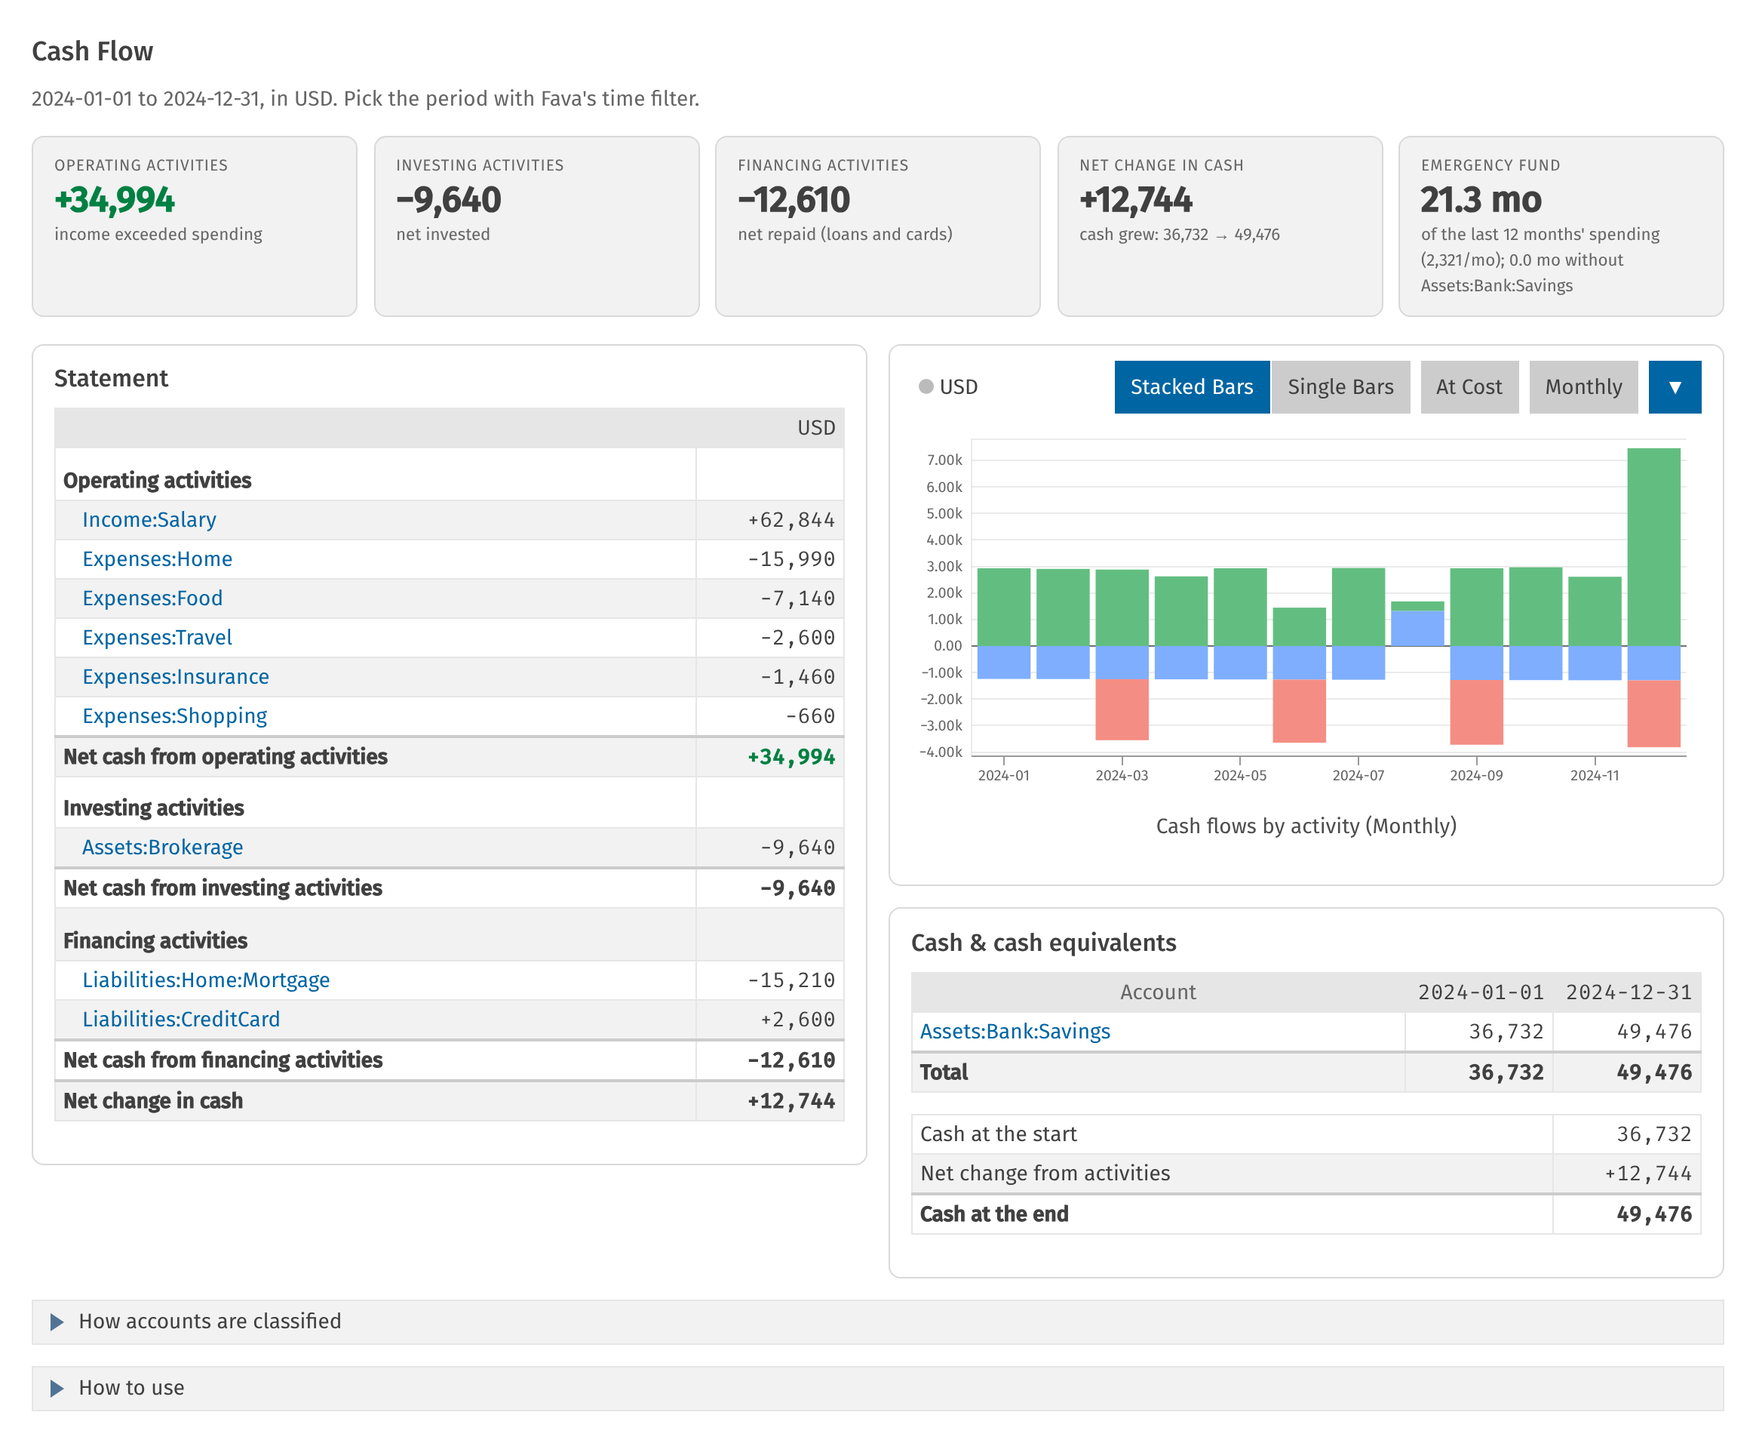
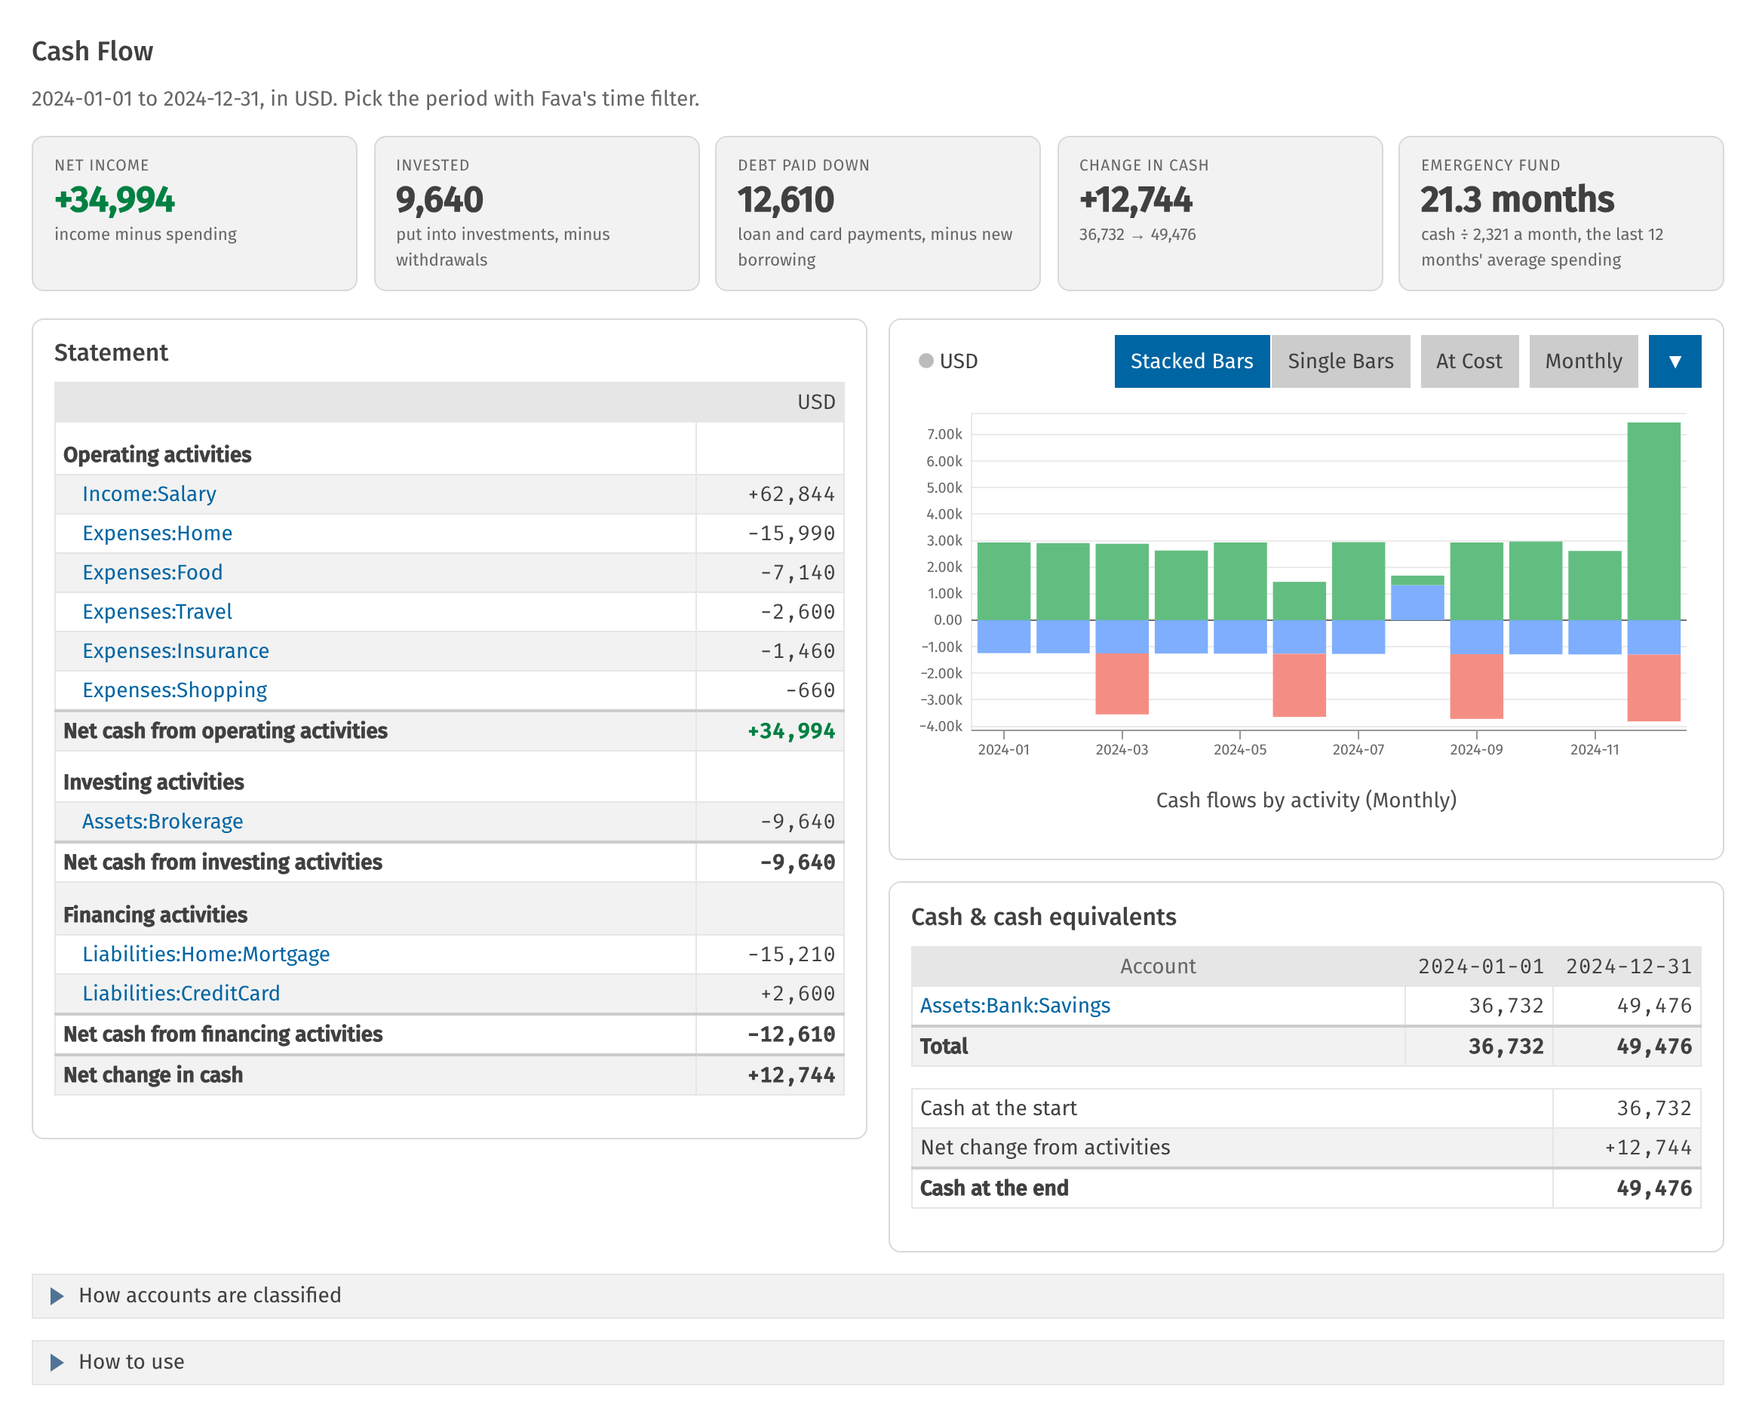
Cash Flow: plain card titles, emergency fund without the savings split
The cards are Net income, Invested or Withdrawn from investments, Debt paid
down or Borrowed, Change in cash and Emergency fund, each with how it's made
up below. The emergency fund is one figure: cash in months of the last 12
months' average spending.

Claude-Session: https://claude.ai/code/session_01KmgJLZjK5mttXsmcq9tafp

diff --git a/src/beancount_sg/ext/cash_flow/templates/CashFlow.html b/src/beancount_sg/ext/cash_flow/templates/CashFlow.html
@@ -74,24 +74,23 @@
 
 <div class="cf-cards">
   {% for activity in extension.activities %}
-  {% set total = result.total(activity) %}
-  <div class="cf-card">
-    <div class="cf-card-label">{{ activity }} activities</div>
-    <div class="cf-card-value">{{ flow(total, activity) }}</div>
-    <div class="cf-note">{{ extension.meaning(activity, total) }}</div>
+  {% set found = extension.card(activity, result.total(activity)) %}
+  <div class="cf-card" title="Net cash from {{ activity }} activities">
+    <div class="cf-card-label">{{ found.title }}</div>
+    <div class="cf-card-value"><span class="cf-{{ found.tone }}">{{ found.amount }}</span></div>
+    <div class="cf-note">{{ found.detail }}</div>
   </div>
   {% endfor %}
   <div class="cf-card">
-    <div class="cf-card-label">Net change in cash</div>
+    <div class="cf-card-label">Change in cash</div>
     <div class="cf-card-value">{{ flow(result.net_change) }}</div>
-    <div class="cf-note">{{ extension.meaning("cash", result.net_change) }}: {{ extension.balance(result.cash_start_total) }} → {{ extension.balance(result.cash_end_total) }}</div>
+    <div class="cf-note">{{ extension.balance(result.cash_start_total) }} → {{ extension.balance(result.cash_end_total) }}</div>
   </div>
-  {% set months = result.months_of_cash() %}
-  {% set spendable = result.months_of_cash(savings=false) %}
-  <div class="cf-card" title="Cash at the end, divided by average monthly spending over the 12 months up to it ({{ result.trailing_start }} to {{ result.end - extension.one_day }})">
+  {% set months = result.months_of_cash %}
+  <div class="cf-card" title="Average spending over {{ result.trailing_start }} to {{ result.end - extension.one_day }}">
     <div class="cf-card-label">Emergency fund</div>
-    <div class="cf-card-value">{% if months is none %}&mdash;{% else %}{{ '%.1f'|format(months) }} mo{% endif %}</div>
-    <div class="cf-note">of the last 12 months' spending ({{ extension.balance(result.monthly_expenses) }}/mo){% if spendable is not none and result.savings_accounts %}; {{ '%.1f'|format(spendable) }} mo without {{ result.savings_accounts|join(', ') }}{% endif %}</div>
+    <div class="cf-card-value">{% if months is none %}&mdash;{% else %}{{ '%.1f'|format(months) }} months{% endif %}</div>
+    <div class="cf-note">cash ÷ {{ extension.balance(result.monthly_expenses) }} a month, the last 12 months' average spending</div>
   </div>
 </div>
 
@@ -183,14 +182,15 @@
     <li>The period is Fava's time filter, up to today, or the last 12 months (this month and the
       11 before) without one. Fava's account and advanced filters apply, as on Fava's own
       reports.</li>
-    <li>Each line is an account's effect on cash: money in is positive, money out negative. So
-      investing −9,640 means 9,640 more was invested than withdrawn, and financing −5,000 that
-      5,000 more was repaid than borrowed. Only operating cash is green (a surplus) or red (a
-      deficit): investing and financing aren't good or bad by their sign. Income and expenses are
-      rolled up to their top-level category, e.g. <code>Expenses:Food</code>.</li>
+    <li>The cards name each activity's total in plain terms: <em>net income</em> (operating),
+      <em>invested</em> or <em>withdrawn from investments</em> (investing), and <em>debt paid
+      down</em> or <em>borrowed</em> (financing). Only net income is green (a surplus) or red (a
+      deficit): investing and financing aren't good or bad by which way they go.</li>
+    <li>In the statement, each line is an account's effect on cash: money in is positive, money
+      out negative, e.g. investing −9,640 is 9,640 invested. Income and expenses are rolled up to
+      their top-level category, e.g. <code>Expenses:Food</code>.</li>
     <li>The <em>emergency fund</em> is cash at the end, in months of average spending over the 12
-      months up to it, whatever the period; also without accounts named Savings, i.e. the money
-      on hand to spend.</li>
+      months up to it, whatever the period.</li>
     <li>Credit cards are <code>financing</code>, like any liability: spending on a card is in
       operating, by category, and the card's line in financing is its net change. A card paid in
       full nets to about zero; one carrying a balance shows as borrowing or repaying it.</li>

diff --git a/src/beancount_sg/ext/cash_flow/__init__.py b/src/beancount_sg/ext/cash_flow/__init__.py
@@ -11,14 +11,14 @@ cash (accounts with the ``cash`` role) over the period by every other account's
 flows, in operating, investing and financing sections; see
 `beancount_sg.ext.cash_flow.statement`.
 
-The period is Fava's time filter, up to today, or the last 12 months without one. Fava's
-account and advanced filters apply, as on Fava's own reports. The page has:
+The period is Fava's time filter, up to today, or the last 12 months without one.
+Fava's account and advanced filters apply, as on Fava's own reports. The page has:
 
-- Cards with each activity's total and what it means (e.g. investing -9,640 is
-  "net invested"), the net change in cash, and the emergency fund: how many
-  months of average spending over the last 12 months cash covers, with and
-  without savings accounts. Only operating cash is colored, green for a surplus and red for a
-  deficit: investing and financing flows aren't good or bad by their sign.
+- Cards in plain terms: net income (operating), invested or withdrawn from
+  investments (investing), debt paid down or borrowed (financing), the change in
+  cash, and the emergency fund: how many months of average spending over the last
+  12 months cash covers. Only net income is colored, green for a surplus and red
+  for a deficit: investing and financing flows aren't good or bad by their sign.
 - The statement: each activity's lines and total, and the net change in cash.
 - A chart of each activity's flows per interval (Fava's interval menu).
 - The reconciliation: each cash account at the start and end, with the change
@@ -29,6 +29,7 @@ account and advanced filters apply, as on Fava's own reports. The page has:
 from __future__ import annotations
 
 import datetime
+from dataclasses import dataclass
 from decimal import Decimal
 
 from beancount.core import prices
@@ -72,22 +73,34 @@ def tone(activity: str | None, value: Decimal) -> str:
     return "good" if value > 0 else "bad"
 
 
-# What an activity's total means, when it's money in (+) or out (-) of cash.
-MEANINGS = {
-    (OPERATING, True): "income exceeded spending",
-    (OPERATING, False): "spending exceeded income",
-    (INVESTING, True): "net withdrawn from investments",
-    (INVESTING, False): "net invested",
-    (FINANCING, True): "net borrowed",
-    (FINANCING, False): "net repaid (loans and cards)",
-    (CASH, True): "cash grew",
-    (CASH, False): "cash shrank",
+@dataclass(frozen=True)
+class Card:
+    """An activity's total as a card: a plain title, the amount, and how it's made up."""
+
+    title: str
+    amount: str
+    tone: str
+    detail: str
+
+
+# Each activity's card title and detail, by whether its total is money into cash.
+# Investing and financing are named for which way the money went, and shown
+# without a sign; net income keeps its sign.
+CARDS = {
+    (OPERATING, True): ("Net income", "income minus spending"),
+    (OPERATING, False): ("Net income", "income minus spending"),
+    (INVESTING, True): ("Withdrawn from investments", "taken out, minus money put in"),
+    (INVESTING, False): ("Invested", "put into investments, minus withdrawals"),
+    (FINANCING, True): ("Borrowed", "new borrowing, minus loan and card payments"),
+    (FINANCING, False): ("Debt paid down", "loan and card payments, minus new borrowing"),
 }
 
 
-def meaning(activity: str, value: Decimal) -> str:
-    """What an activity's total (or, for ``cash``, the net change) means."""
-    return MEANINGS[(activity, value >= 0)] if value else "no change"
+def card(activity: str, value: Decimal) -> Card:
+    """The card for an activity's total."""
+    title, detail = CARDS[(activity, value > 0)]
+    amount = money(value) if activity == OPERATING else balance(abs(value))
+    return Card(title, amount, tone(activity, value), detail)
 
 
 class CashFlow(FavaExtensionBase):
@@ -101,7 +114,7 @@ class CashFlow(FavaExtensionBase):
     money = staticmethod(money)
     balance = staticmethod(balance)
     tone = staticmethod(tone)
-    meaning = staticmethod(meaning)
+    card = staticmethod(card)
 
     def period(self) -> tuple[datetime.date, datetime.date]:
         """Fava's time filter, or the last 12 months: the first day, and the day after the last.

diff --git a/tests/ext/test_cash_flow.py b/tests/ext/test_cash_flow.py
@@ -2,12 +2,14 @@ import datetime
 import html
 import json
 import re
+from decimal import Decimal
 from urllib.parse import parse_qs, unquote, urlsplit
 
 import pytest
 from fava.application import create_app
 
 import beancount_sg.ext.cash_flow as cash_flow_ext
+from beancount_sg.cash_flow_roles import FINANCING, INVESTING
 
 from .test_cash_flow_statement import LEDGER as STATEMENT_LEDGER
 
@@ -55,33 +57,32 @@ def test_defaults_to_the_last_12_months(tmp_path):
     assert "2023-10-01 to 2024-09-30, in USD." in body
 
 
-def test_cards_say_what_each_total_means(tmp_path):
-    body = page(tmp_path, query="?time=2024")
-    cards = text(
-        body[body.index('<div class="cf-cards">') : body.index('<div class="cf-columns">')]
-    )
-    assert "operating activities +4,400 income exceeded spending" in cards
-    assert "investing activities −1,000 net invested" in cards
-    assert "financing activities −500 net repaid (loans and cards)" in cards
-    assert "Net change in cash +2,900 cash grew: 10,000 → 12,900" in cards
+def cards(body):
+    return text(body[body.index('<div class="cf-cards">') : body.index('<div class="cf-columns">')])
+
+
+def test_cards_have_plain_titles(tmp_path):
+    found = cards(page(tmp_path, query="?time=2024"))
+    assert "Net income +4,400 income minus spending" in found
+    assert "Invested 1,000 put into investments, minus withdrawals" in found
+    assert "Debt paid down 500 loan and card payments, minus new borrowing" in found
+    assert "Change in cash +2,900 10,000 → 12,900" in found
     # 600 spent in the 12 months up to today: 50 a month, which 12,900 of cash covers 258 times.
-    assert "Emergency fund 258.0 mo of the last 12 months' spending (50/mo)" in cards
-    assert "without" not in cards  # no savings accounts
+    assert "Emergency fund 258.0 months cash ÷ 50 a month" in found
 
 
-def test_the_emergency_fund_names_the_savings_accounts_it_leaves_out(tmp_path):
-    ledger = (
-        LEDGER
-        + """
-2020-01-01 open Assets:Bank:Savings USD
-2023-12-31 * "Savings"
-  Assets:Bank:Savings  6000 USD
-  Equity:Opening
-"""
-    )
-    body = text(page(tmp_path, ledger, query="?time=2024"))
-    assert "Emergency fund 378.0 mo of the last 12 months' spending (50/mo);" in body
-    assert "258.0 mo without Assets:Bank:Savings" in body
+def test_a_zero_total_keeps_the_usual_title():
+    assert cash_flow_ext.card(INVESTING, Decimal(0)).title == "Invested"
+    assert cash_flow_ext.card(FINANCING, Decimal(0)).title == "Debt paid down"
+
+
+def test_a_card_for_withdrawing_and_borrowing(tmp_path):
+    ledger = LEDGER.replace(
+        "Assets:Brokerage  10 VTI {100 USD}", "Assets:Brokerage  -10 USD"
+    ).replace("Liabilities:Mortgage  500 USD", "Liabilities:Mortgage  -500 USD")
+    found = cards(page(tmp_path, ledger, query="?time=2024"))
+    assert "Withdrawn from investments 10" in found
+    assert "Borrowed 500" in found
 
 
 def test_a_time_filter_ends_today(tmp_path):
@@ -89,9 +90,10 @@ def test_a_time_filter_ends_today(tmp_path):
     assert "2024-01-01 to 2024-09-30, in USD." in text(page(tmp_path, query="?time=2024"))
 
 
-def test_only_operating_cash_is_colored(tmp_path):
+def test_only_net_income_is_colored(tmp_path):
     body = page(tmp_path, query="?time=2024")
     assert '<span class="cf-good">+4,400</span>' in body  # a surplus
+    assert '<span class="cf-neutral">1,000</span>' in body  # the Invested card: not bad
     assert '<span class="cf-neutral">−1,000</span>' in body  # invested: not bad
     assert '<span class="cf-neutral">−500</span>' in body
     deficit = LEDGER.replace("Assets:Bank:Checking  5000 USD", "Assets:Bank:Checking  50 USD")

diff --git a/src/beancount_sg/ext/cash_flow/statement.py b/src/beancount_sg/ext/cash_flow/statement.py
@@ -18,15 +18,13 @@ reconciles.
 
 The statement also totals the spending (expense accounts) over the 12 months up
 to the period's end, for the emergency fund: how many months of that average
-spending cash at the end covers, with and without cash accounts named Savings.
-It uses 12 months whatever the period, so a short or partial period doesn't make
-it seasonal.
+spending cash at the end covers. It uses 12 months whatever the period, so a
+short or partial period doesn't make it seasonal.
 """
 
 from __future__ import annotations
 
 import datetime
-import re
 from collections import defaultdict
 from collections.abc import Iterable, Mapping, Sequence
 from dataclasses import dataclass, field
@@ -51,8 +49,6 @@ from .._valuation import market_values, posting_value
 
 ACTIVITIES = (OPERATING, INVESTING, FINANCING)
 ONE_DAY = datetime.timedelta(days=1)
-# Cash accounts that hold savings, rather than money to spend, by name.
-SAVINGS_NAMES = re.compile(r"savings", re.IGNORECASE)
 
 
 @dataclass
@@ -113,28 +109,11 @@ class Statement:
         return self.trailing_expenses / 12
 
     @property
-    def savings_accounts(self) -> list[str]:
-        """The cash accounts named Savings with a balance at the end."""
-        return sorted(
-            account
-            for account, value in self.cash_end.items()
-            if value and SAVINGS_NAMES.search(account)
-        )
-
-    def months_of_cash(self, *, savings: bool = True) -> Decimal | None:
-        """How many months of average spending (see `monthly_expenses`) cash at the end covers.
-
-        Without ``savings``, only cash accounts not named Savings: the money on
-        hand to spend.
-        """
+    def months_of_cash(self) -> Decimal | None:
+        """How many months of average spending (see `monthly_expenses`) cash at the end covers."""
         if self.monthly_expenses <= 0:
             return None
-        excluded = set() if savings else set(self.savings_accounts)
-        cash = sum(
-            (value for account, value in self.cash_end.items() if account not in excluded),
-            Decimal(0),
-        )
-        return cash / self.monthly_expenses
+        return self.cash_end_total / self.monthly_expenses
 
     @property
     def cash_accounts(self) -> list[str]:

diff --git a/tests/ext/test_cash_flow_statement.py b/tests/ext/test_cash_flow_statement.py
@@ -133,9 +133,7 @@ def test_emergency_fund():
     # The 12 months up to the end are 2024: 600 spent, 50 a month.
     assert result.trailing_start == BEGIN
     assert (result.trailing_expenses, result.monthly_expenses) == (600, 50)
-    assert result.savings_accounts == ["Assets:Bank:Savings"]
-    assert result.months_of_cash() == Decimal(12900 + 6000) / 50
-    assert result.months_of_cash(savings=False) == Decimal(12900) / 50
+    assert result.months_of_cash == Decimal(12900 + 6000) / 50
 
 
 def test_emergency_fund_uses_12_months_whatever_the_period():

diff --git a/docs/fava/cash-flow.md b/docs/fava/cash-flow.md
@@ -9,6 +9,22 @@ financing activities, reconciled with the change in your cash.
 
 ![Cash Flow report](images/cash-flow.png)
 
+## The cards
+
+The cards name each section's total in plain terms, with how it's made up below:
+
+| Card | Section | |
+| --- | --- | --- |
+| **Net income** | Operating | Income minus spending: positive is a surplus, negative a deficit. |
+| **Invested**, or **Withdrawn from investments** | Investing | Money put into investments minus money taken out, named for whichever was larger. |
+| **Debt paid down**, or **Borrowed** | Financing | Loan and card payments minus new borrowing, named for whichever was larger. |
+| **Change in cash** | | Cash at the end minus cash at the start. |
+| **Emergency fund** | | Cash at the end, in months of spending (see below). |
+
+Only net income is colored, green for a surplus and red for a deficit, since that's clearly good
+or bad. Investing and financing aren't: investing or paying down debt is usually good, though it
+takes money out of cash.
+
 ## The statement
 
 Accounts are classified by their **cash-flow role**, using the same metadata and defaults as
@@ -24,20 +40,8 @@ on the account's `open` directive:
   between cash accounts doesn't show up.
 - **Operating, investing and financing** (`operating`, `investing`, `financing`): every other
   account's flows over the period are a line in its role's section, as its effect on cash: money
-  in is positive, money out negative. Income and expenses are rolled up to their top-level
-  category, e.g. `Expenses:Food`.
-
-What each section's total means:
-
-| Section | Positive | Negative |
-| --- | --- | --- |
-| **Operating** | Income exceeded spending: a surplus to save | Spending exceeded income |
-| **Investing** | More withdrawn from investments than put in | More invested than withdrawn |
-| **Financing** | More borrowed than repaid | More repaid (loans and cards) than borrowed |
-
-Only the operating total is colored, green for a surplus and red for a deficit, since that's
-clearly good or bad. Investing and financing aren't: a negative investing total is money out of
-cash, but it's savings going into investments.
+  in is positive, money out negative, e.g. investing −9,640 is 9,640 invested. Income and
+  expenses are rolled up to their top-level category, e.g. `Expenses:Food`.
 
 Without a declared role (a parent's applies to its subaccounts), assets named with Cash, Checking,
 Savings or Bank are `cash`, other assets `investing`, liabilities and equity `financing`, and
@@ -62,9 +66,7 @@ held in another currency, a **change in value** line shows the difference.
 
 How many months of spending your cash covers: cash at the end of the period, divided by average
 monthly spending (expenses) over the 12 months up to it. It uses 12 months whatever the period, so
-a month's filter or a year-to-date year doesn't make it seasonal. It's also shown without cash
-accounts named Savings, i.e. counting only the money on hand to spend; the card names the
-accounts left out.
+a month's filter or a year-to-date year doesn't make it seasonal.
 
 ## Period and filters
 
